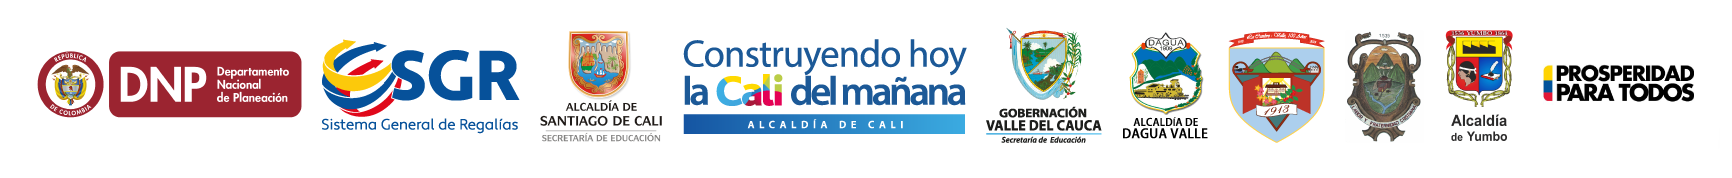
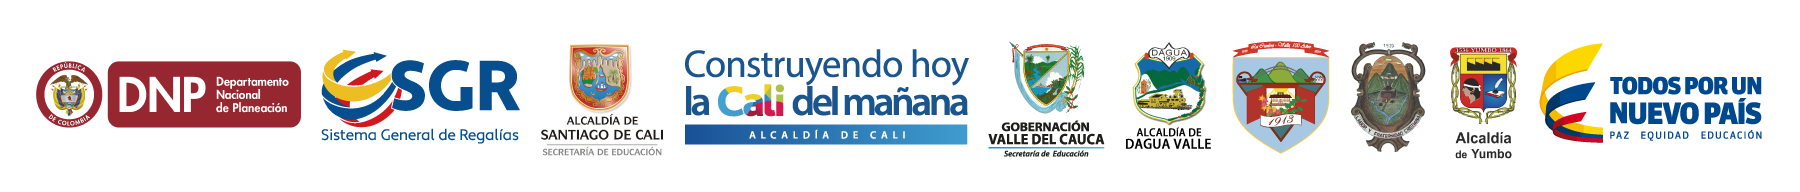
cambio imagen footer y quitar mail

diff --git a/templates/index.html b/templates/index.html
@@ -220,7 +220,6 @@
             </div>
             <hr>
             <img class="img-responsive center-block" src="{{STATIC_URL}}img/footer_3.png?v=2"  style="width:85%; border-radius:10px;" >
-            <h6 class="text-center">Contacto: <a href="mailto:titaedpt@gmail.com">titaedpt@gmail.com</a></h6>
         </div>
         <!-- end #content -->
         <!-- begin scroll to top btn -->

diff --git a/templates/base.html b/templates/base.html
@@ -211,7 +211,6 @@
             {% block footer %}
                 <hr>
                 <img class="img-responsive" src="{{STATIC_URL}}img/footer_3.png?v=2"  style="border-radius:10px; " >
-                <h6 class="text-center">Contacto: <a href="mailto:titaedpt@gmail.com">titaedpt@gmail.com</a></h6>
             {% endblock %}
 
         </div>
